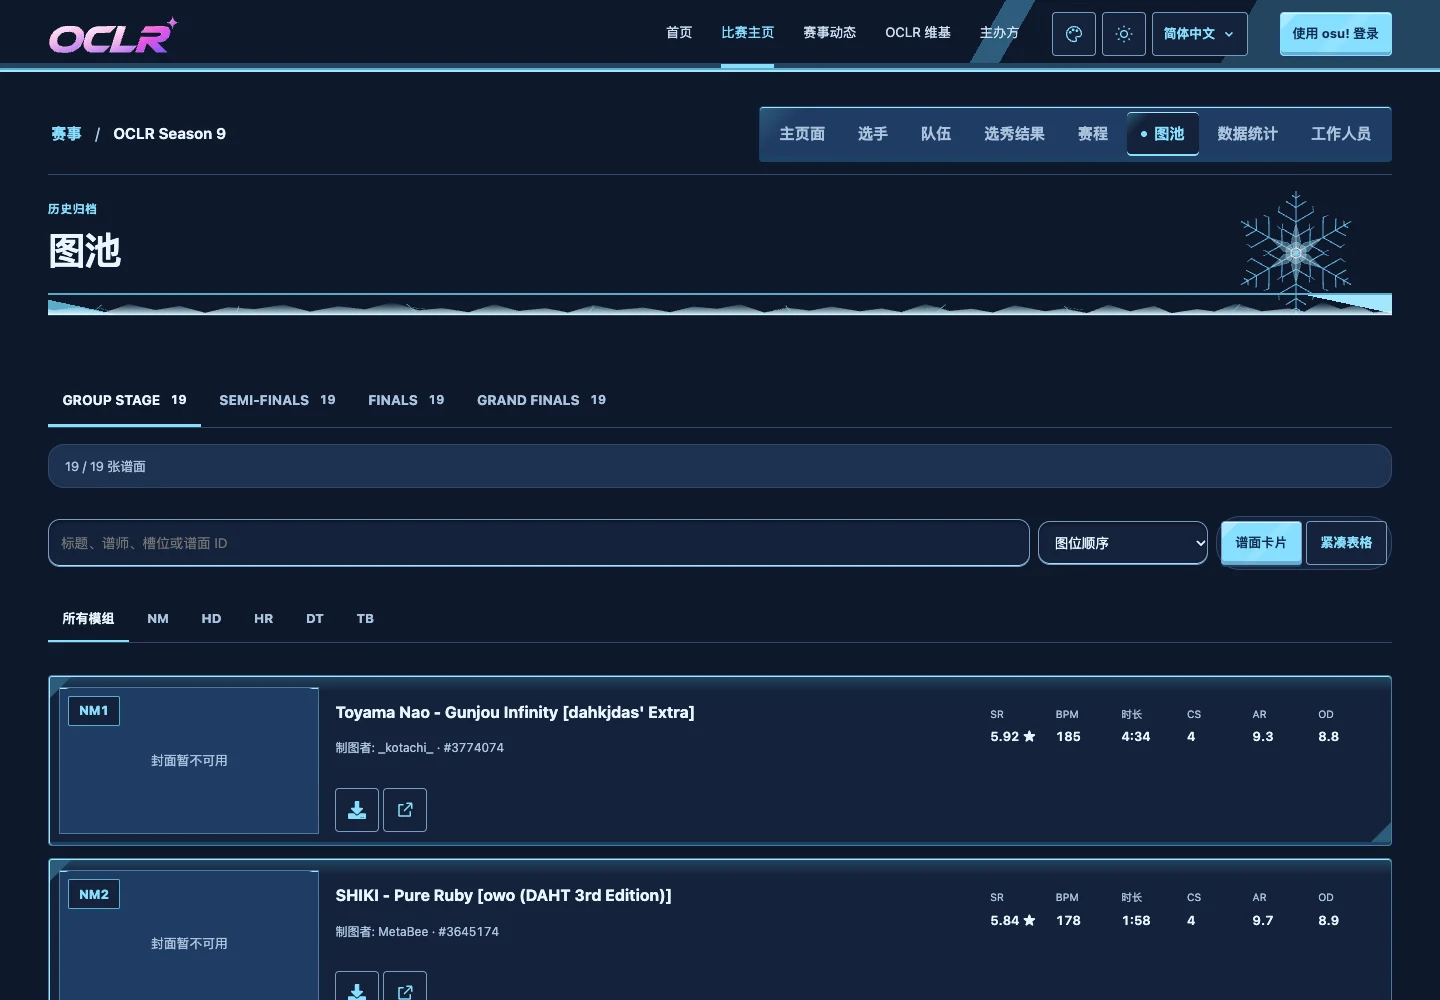
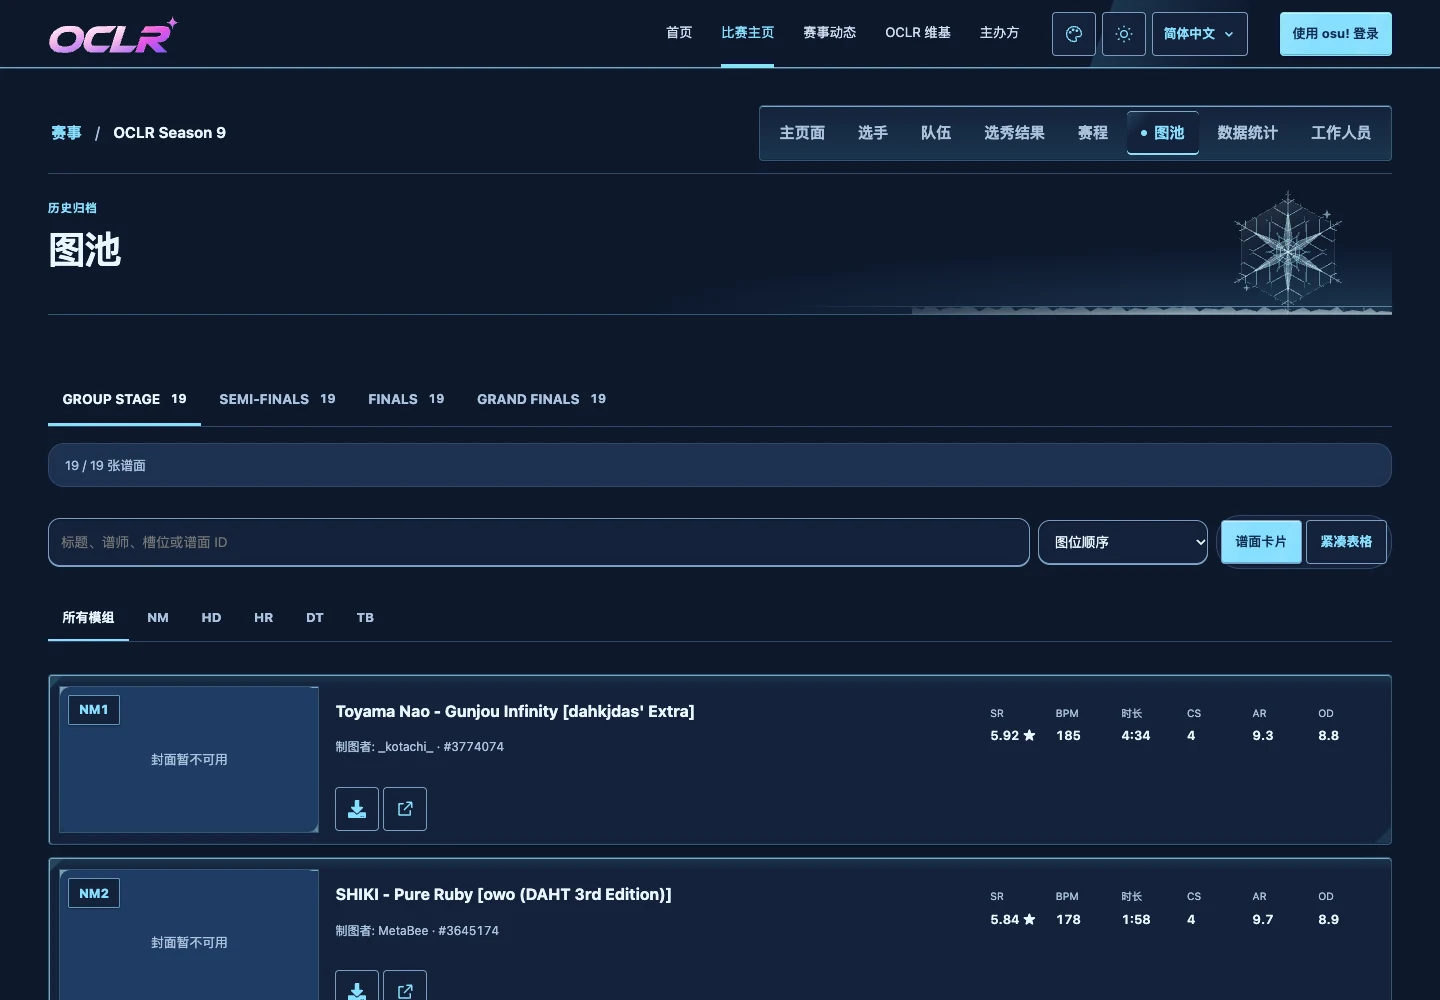
design(s9): refine crystal veins, frost scale and prismatic lighting (#196)

diff --git a/docs/design/season-themes/s9.css b/docs/design/season-themes/s9.css
@@ -136,110 +136,117 @@ html[data-s9-preview]
   }
 }
 
-/* Crystal material: branched etching, frost accretion and refractive bevels.
- * Text always sits on an opaque slab. No filter, clipped content or new DOM. */
+/* Crystal material uses one top-left light source. Fine veins and caustics
+ * stay at the perimeter; text retains an opaque, quiet reading surface. */
 html[data-s9-preview] .themed-site {
   --ice-crystal: url("./s9/crystal-etching.svg");
   --ice-frost: url("./s9/frost-rim.svg");
-  --ice-rim: #b4dce9;
+  --ice-facets: url("./s9/ice-facets.svg");
+  --ice-rim: #c4dfeb;
   --ice-rim-bright: #ffffff;
-  --ice-rim-shade: #8bbbd4;
-  --ice-facet: #d5f2ff;
-  --ice-cut: #aad8eb;
-  --ice-etch: #c8eaf6;
-  --ice-well: #e9f4fc;
-  --ice-shadow: #184d7524;
+  --ice-rim-shade: #a5c8d9;
+  --ice-facet: #e2f3fa;
+  --ice-cut: #93c8de;
+  --ice-etch: #e9f5fb;
+  --ice-well: #f6fafd;
+  --ice-shadow: #23527314;
+  --ice-contact: #1e56751a;
+  --ice-frost-opacity: .6;
   --ice-slab:
-    linear-gradient(135deg, var(--ice-facet) 0 16px, transparent 16.5px) top
-      left / 32px 32px no-repeat,
-    linear-gradient(315deg, var(--ice-facet) 0 16px, transparent 16.5px) bottom
-      right / 32px 32px no-repeat,
-    linear-gradient(180deg, var(--ice-etch), transparent 16px),
+    linear-gradient(135deg, var(--ice-facet) 0 10px, transparent 10.5px)
+      top left / 24px 24px no-repeat,
+    linear-gradient(315deg, var(--ice-etch) 0 12px, transparent 12.5px)
+      bottom right / 24px 24px no-repeat,
+    linear-gradient(180deg, var(--ice-etch), transparent 12px),
     var(--site-surface);
+  --ice-panel-depth:
+    inset 0 1px 0 var(--ice-rim-bright),
+    inset 1px 0 0 var(--ice-rim-bright),
+    inset 0 -1px 0 var(--ice-rim-shade),
+    0 2px 3px -2px var(--ice-contact),
+    0 12px 28px -20px var(--ice-shadow);
 }
 html[data-s9-preview][data-theme="dark"] .themed-site {
-  --ice-rim: #477b9e;
-  --ice-rim-bright: #a2e7ff;
-  --ice-rim-shade: #1b4265;
-  --ice-facet: #2c5c7b;
-  --ice-cut: #5caccb;
-  --ice-etch: #224560;
-  --ice-well: #0d1b31;
-  --ice-shadow: #0006;
+  --ice-rim: #345872;
+  --ice-rim-bright: #79aac6;
+  --ice-rim-shade: #112d49;
+  --ice-facet: #24445e;
+  --ice-cut: #5f9ab8;
+  --ice-etch: #1b354e;
+  --ice-well: #101e32;
+  --ice-shadow: #0005;
+  --ice-contact: #0006;
+  --ice-frost-opacity: .3;
 }
 html[data-s9-preview] .themed-site .site-header {
-  border-bottom: 2px solid var(--ice-cut);
-  box-shadow:
-    inset 0 -5px 0 var(--ice-etch),
-    0 2px 0 var(--ice-rim-bright);
+  border-bottom: 1px solid var(--ice-rim);
   background:
-    linear-gradient(
-      120deg,
-      transparent 68%,
-      var(--ice-facet) 68% 70%,
-      transparent 70% 85%,
-      var(--ice-etch) 85%
-    ),
+    linear-gradient(110deg, transparent 76%, var(--ice-etch) 76.1%, transparent 86%),
     var(--site-header);
+  box-shadow: inset 0 -1px 0 var(--ice-rim-bright), 0 2px 8px -6px var(--ice-shadow);
 }
 html[data-s9-preview] .themed-site .page-heading {
-  background: var(--ice-crystal) right 24px center / 144px 144px no-repeat;
-  border-bottom: 1px solid var(--ice-rim-shade);
   padding-bottom: 2rem;
+  border-bottom: 1px solid var(--ice-rim);
+  background:
+    var(--ice-crystal) right 32px center / 144px 144px no-repeat,
+    radial-gradient(ellipse at 100% 100%, var(--ice-etch), transparent 40%);
 }
 html[data-s9-preview] .themed-site .page-heading::after {
   content: "";
   position: absolute;
-  inset: auto 0 0;
-  height: 20px;
-  background:
-    var(--ice-frost) center bottom / 100% 20px no-repeat,
-    linear-gradient(
-      168deg,
-      var(--ice-cut) 0 5%,
-      transparent 5% 94%,
-      var(--ice-rim-bright) 94%
-    );
-  border-bottom: 2px solid var(--ice-cut);
+  inset: auto 0 -1px;
+  height: 8px;
+  background: var(--ice-frost) right top / 480px 32px no-repeat;
+  mask-image: linear-gradient(90deg, transparent 55%, #000 85%);
+  border-bottom: 1px solid var(--ice-rim-bright);
   transform: scaleY(-1);
+  opacity: .7;
   pointer-events: none;
 }
 html[data-s9-preview] .themed-site .archive-key-visual {
   position: relative;
   padding: 16px;
-  border: 1px solid var(--ice-rim-shade);
-  border-top: 4px solid var(--ice-cut);
+  border: 1px solid var(--ice-rim);
+  border-radius: 4px;
   background:
-    var(--ice-frost) left top / 100% 36px no-repeat,
-    var(--ice-crystal) left -24px top -64px / 200px 200px no-repeat,
-    var(--ice-crystal) right -40px bottom -72px / 180px 180px no-repeat,
-    linear-gradient(
-      145deg,
-      var(--ice-facet),
-      var(--site-surface) 35% 62%,
-      var(--ice-etch)
-    );
+    var(--ice-facets) center / 100% 100% no-repeat,
+    linear-gradient(145deg, var(--ice-etch), var(--site-surface) 32% 72%, var(--ice-facet));
   box-shadow:
     inset 0 1px 0 var(--ice-rim-bright),
-    inset 4px 0 0 var(--ice-etch),
-    inset -5px -5px 0 var(--ice-rim-shade),
-    0 12px 24px -18px var(--ice-shadow);
+    inset 1px 0 0 var(--ice-rim-bright),
+    inset -1px -2px 0 var(--ice-rim-shade),
+    0 3px 5px -3px var(--ice-contact),
+    0 16px 40px -24px var(--ice-shadow);
+}
+html[data-s9-preview] .themed-site .archive-key-visual::before {
+  content: "";
+  position: absolute;
+  inset: 1px 1px auto;
+  height: 40px;
+  background: var(--ice-frost) center top / 1000px 64px repeat-x;
+  opacity: var(--ice-frost-opacity);
+  pointer-events: none;
 }
 html[data-s9-preview] .themed-site .archive-key-visual::after {
   content: "";
   position: absolute;
   inset: 5px;
   border: 1px solid var(--ice-rim-bright);
+  border-right-color: var(--ice-rim);
+  border-bottom-color: var(--ice-rim);
+  border-radius: 2px;
   pointer-events: none;
 }
 html[data-s9-preview] .themed-site .archive-counts {
-  background: var(--ice-slab);
   padding: 12px 24px;
+  background: var(--ice-slab);
   border: 1px solid var(--ice-rim);
-  border-top: 3px solid var(--ice-cut);
-  box-shadow:
-    inset 0 1px 0 var(--ice-rim-bright),
-    inset 0 -4px 0 var(--ice-rim-shade);
+  border-radius: 4px;
+  box-shadow: var(--ice-panel-depth);
+}
+html[data-s9-preview] .themed-site .archive-counts > div {
+  border-bottom-color: var(--ice-rim);
 }
 html[data-s9-preview] .themed-site .archive-counts > div:first-child {
   border-top: 0;
@@ -247,151 +254,98 @@ html[data-s9-preview] .themed-site .archive-counts > div:first-child {
 html[data-s9-preview] .themed-site .archive-counts > div:last-child {
   border-bottom: 0;
 }
-html[data-s9-preview]
-  .themed-site
-  .public-tournament
-  .tournament-navigation
-  nav {
-  border: 1px solid var(--ice-rim-shade);
-  background:
-    linear-gradient(135deg, var(--ice-facet), transparent 32px),
-    linear-gradient(0deg, var(--ice-etch), transparent 8px), var(--site-tint);
+html[data-s9-preview] .themed-site .archive-counts dd {
+  letter-spacing: -.035em;
+}
+html[data-s9-preview] .themed-site .public-tournament .tournament-navigation nav {
+  border: 1px solid var(--ice-rim);
+  background: linear-gradient(180deg, var(--site-surface), var(--ice-etch));
   box-shadow:
     inset 0 1px 0 var(--ice-rim-bright),
-    inset 0 -3px 0 var(--ice-rim-shade);
+    inset 0 -1px 0 var(--ice-rim-shade),
+    0 2px 4px -3px var(--ice-contact);
 }
-html[data-s9-preview]
-  .themed-site
-  .public-tournament
-  .tournament-navigation
-  a[aria-current] {
+html[data-s9-preview] .themed-site .public-tournament .tournament-navigation a[aria-current] {
   background:
-    linear-gradient(135deg, var(--ice-facet), transparent 18px),
+    linear-gradient(135deg, var(--ice-facet), transparent 20px),
     var(--site-surface);
   box-shadow:
     inset 0 1px 0 var(--ice-rim-bright),
-    inset 0 -2px 0 var(--site-accent);
+    inset 0 -2px 0 var(--site-accent),
+    0 1px 3px -2px var(--ice-contact);
 }
-html[data-s9-preview]
-  .themed-site
-  :is(
-    .rules-article,
-    .settings-card,
-    .map-browse-card,
-    .rules-desktop-contents,
-    .rules-mobile-contents
-  ) {
+html[data-s9-preview] .themed-site :is(.rules-article, .settings-card, .map-browse-card) {
   background: var(--ice-slab);
   border-color: var(--ice-rim);
-  box-shadow:
-    inset 0 1px 0 var(--ice-rim-bright),
-    inset 1px 0 0 var(--ice-rim-bright),
-    inset 0 -3px 0 var(--ice-rim-shade),
-    0 8px 20px -18px var(--ice-shadow);
+  box-shadow: var(--ice-panel-depth);
 }
-html[data-s9-preview]
-  .themed-site
-  :is(.rules-desktop-contents, .rules-mobile-contents) {
-  border-left: 4px solid var(--ice-cut);
+html[data-s9-preview] .themed-site :is(.rules-desktop-contents, .rules-mobile-contents) {
+  background: var(--site-surface);
+  border-color: var(--ice-rim);
+  border-left: 2px solid var(--ice-cut);
+  box-shadow: inset 0 1px 0 var(--ice-rim-bright);
 }
 html[data-s9-preview] .themed-site .rules-article h2 {
   padding-bottom: 8px;
-  border-bottom: 1px solid var(--ice-etch);
+  border-bottom: 1px solid var(--ice-rim);
 }
 html[data-s9-preview] .themed-site :is(input, select, textarea) {
   background: var(--ice-well);
-  box-shadow:
-    inset 0 2px 3px var(--ice-shadow),
-    inset 0 -1px 0 var(--ice-rim-bright);
+  box-shadow: inset 0 1px 2px var(--ice-contact), 0 1px 0 var(--ice-rim-bright);
 }
-html[data-s9-preview]
-  .themed-site
-  :is(
-    .nav-login,
-    .settings-card button[type="submit"],
-    .map-view-control button[aria-pressed="true"]
-  ) {
-  background-image: linear-gradient(
-    135deg,
-    #ffffff45 0 12px,
-    #ffffff00 12px 50%,
-    #ffffff18 50% 60%,
-    #ffffff00 60%
-  );
+html[data-s9-preview] .themed-site :is(.nav-login, .settings-card button[type="submit"], .map-view-control button[aria-pressed="true"]) {
+  background-image: linear-gradient(115deg, #ffffff1f, #ffffff00 35% 72%, #ffffff12 72.2%, #ffffff00 85%);
   box-shadow:
-    inset 0 1px 0 #ffffffb3,
-    inset 0 -3px 0 #08295645,
-    0 2px 0 var(--ice-rim-shade);
+    inset 0 1px 0 #ffffff80,
+    inset 0 -1px 0 #08295645,
+    0 1px 2px var(--ice-contact);
 }
 html[data-s9-preview] .themed-site .map-card-cover {
   background:
-    var(--ice-crystal) right -40px top -20px / 180px 180px no-repeat,
-    var(--site-tint);
+    var(--ice-facets) center / 100% 100% no-repeat,
+    linear-gradient(145deg, var(--ice-etch), var(--site-tint));
   border: 1px solid var(--ice-rim);
   box-shadow: inset 0 1px 0 var(--ice-rim-bright);
 }
 html[data-s9-preview] .themed-site .map-slot-badge {
   border: 1px solid var(--ice-cut);
   border-radius: 2px;
-  box-shadow: 2px 2px 0 var(--ice-rim-shade);
+  box-shadow: 0 1px 2px var(--ice-contact);
 }
 @media (max-width: 760px) {
   html[data-s9-preview] .themed-site .page-heading {
-    background-image: none;
+    background: none;
+  }
+  html[data-s9-preview] .themed-site .page-heading::after {
+    opacity: .5;
   }
   html[data-s9-preview] .themed-site .archive-key-visual {
     padding: 12px;
+    background-size: 100% 100%, auto;
+  }
+  html[data-s9-preview] .themed-site .archive-key-visual::before {
+    background-size: 800px 51px;
   }
   html[data-s9-preview] .themed-site .archive-counts {
     padding-inline: 16px;
   }
 }
 @media (forced-colors: active) {
-  html[data-s9-preview]
-    .themed-site
-    :is(
-      .site-header,
-      .page-heading,
-      .archive-key-visual,
-      .archive-counts,
-      .rules-article,
-      .rules-desktop-contents,
-      .rules-mobile-contents,
-      .settings-card,
-      .map-browse-card,
-      .map-card-cover,
-      .tournament-navigation nav,
-      .tournament-navigation a,
-      .nav-login,
-      input,
-      select,
-      textarea
-    ) {
+  html[data-s9-preview] .themed-site :is(.site-header, .page-heading, .archive-key-visual, .archive-counts, .rules-article, .rules-desktop-contents, .rules-mobile-contents, .settings-card, .map-browse-card, .map-card-cover, .nav-login, input, select, textarea) {
     background: Canvas;
     box-shadow: none;
     border-color: CanvasText;
   }
-  html[data-s9-preview]
-    .themed-site
-    :is(.page-heading, .archive-key-visual)::after {
+  html[data-s9-preview] .themed-site .archive-key-visual::before,
+  html[data-s9-preview] .themed-site :is(.page-heading, .archive-key-visual)::after {
     display: none;
   }
-}
-@media (forced-colors: active) {
-  html[data-s9-preview]
-    .themed-site
-    .public-tournament
-    .tournament-navigation
-    :is(nav, a) {
+  html[data-s9-preview] .themed-site .public-tournament .tournament-navigation :is(nav, a) {
     background: Canvas;
     box-shadow: none;
     border-color: CanvasText;
   }
-  html[data-s9-preview]
-    .themed-site
-    .public-tournament
-    .tournament-navigation
-    a[aria-current] {
+  html[data-s9-preview] .themed-site .public-tournament .tournament-navigation a[aria-current] {
     background: Highlight;
     color: HighlightText;
     outline: 2px solid Highlight;

diff --git a/docs/design/season-themes/s9.html b/docs/design/season-themes/s9.html
@@ -77,7 +77,7 @@
     <header>
       <h1>S9 · 最新應用 UI 設計對照</h1>
       <p>
-        圖片直接來自 main <code>f96e327</code> 的實際頁面。S9 僅套用候選
+        圖片直接來自 main <code>0d3e203</code> 的實際頁面。S9 僅套用候選
         CSS；頁面元件、內容與導覽結構保持一致。
       </p>
       <p>

diff --git a/docs/design/season-themes/README.md b/docs/design/season-themes/README.md
@@ -6,7 +6,7 @@
 
 S10 的 `s10.html` 現為**實際截圖對照圖庫**，可切換頁面、尺寸、明暗及最新原有風格／S10 候選。它只在本機展示圖片，不連接 API、DB 或儲存偏好。重新產生 S10 圖片需獨立應用與可丟棄 test DB；見 [S10 設計與重現步驟](s10/DESIGN.md)。S8／S7 的既有靜態樣本保持原樣。
 
-**2026-10-26 S9 更新**：[S9 #196](https://github.com/OCLR-dev/OCLR-website/issues/196) 依相同要求，以已合併 #362 的 main `f96e327` 實際 UI 產圖。S9 使用六向晶枝刻紋、霜生邊緣、折光切面和有厚度的冰板面，搭配霜白／鈷藍與 4px 幾何，保留完整 16:9 原圖。`s9.html` 同樣為截圖對照圖庫；重現步驟與驗證見 [S9 DESIGN](s9/DESIGN.md)。
+**2026-10-26 S9 更新**：[S9 #196](https://github.com/OCLR-dev/OCLR-website/issues/196) 依相同要求，已同步 main `0d3e203` 的實際 UI 並重新建置產圖。精修版以分級細晶脈、稀疏霜枝、薄切面、統一左上光源與輕量資料面呈現冰晶，搭配霜白／鈷藍與 4px 幾何，保留完整 16:9 原圖。`s9.html` 同樣為截圖對照圖庫；重現步驟與驗證見 [S9 DESIGN](s9/DESIGN.md)。
 
 | Season | 提案                        | 可操作樣本           | 設計規格                | 預覽                                                                                              |
 | ------ | --------------------------- | -------------------- | ----------------------- | ------------------------------------------------------------------------------------------------- |
